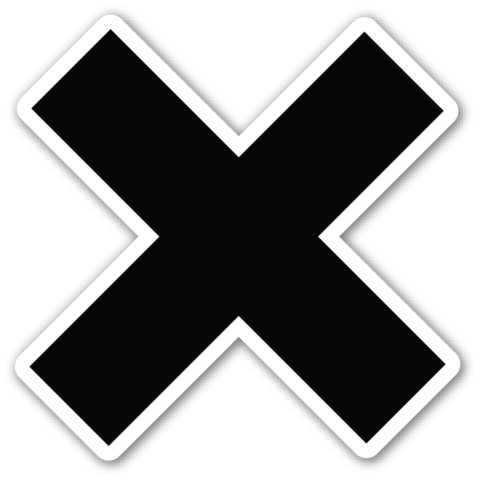
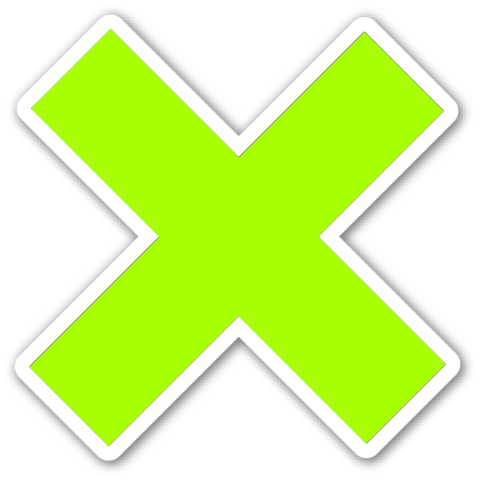
fix buttons

diff --git a/index.html b/index.html
@@ -128,8 +128,8 @@
           <a
             href="mailto:siteok.studio@gmail.com"
             class="button animated fadeInUp"
-            ><img src="img/button.png" alt="button"
-          /></a>
+            >Заказать сайт</a
+          >
         </div>
         <div class="right-items">
           <div class="logo-main animated rotateIn">

diff --git a/css/main.css b/css/main.css
@@ -89,6 +89,17 @@ p {
 }
 .button {
   animation-delay: 3s;
+  text-decoration: none;
+  padding: 10px;
+  color: #c2f200;
+  border: 2px solid#c2f200;
+  border-radius: 15px;
+}
+.button:hover {
+  box-shadow: 0 0 10px #c2f200;
+  color: #141126;
+  background-color: #c2f200;
+  transition: 1s;
 }
 .my-name {
   opacity: 0;
